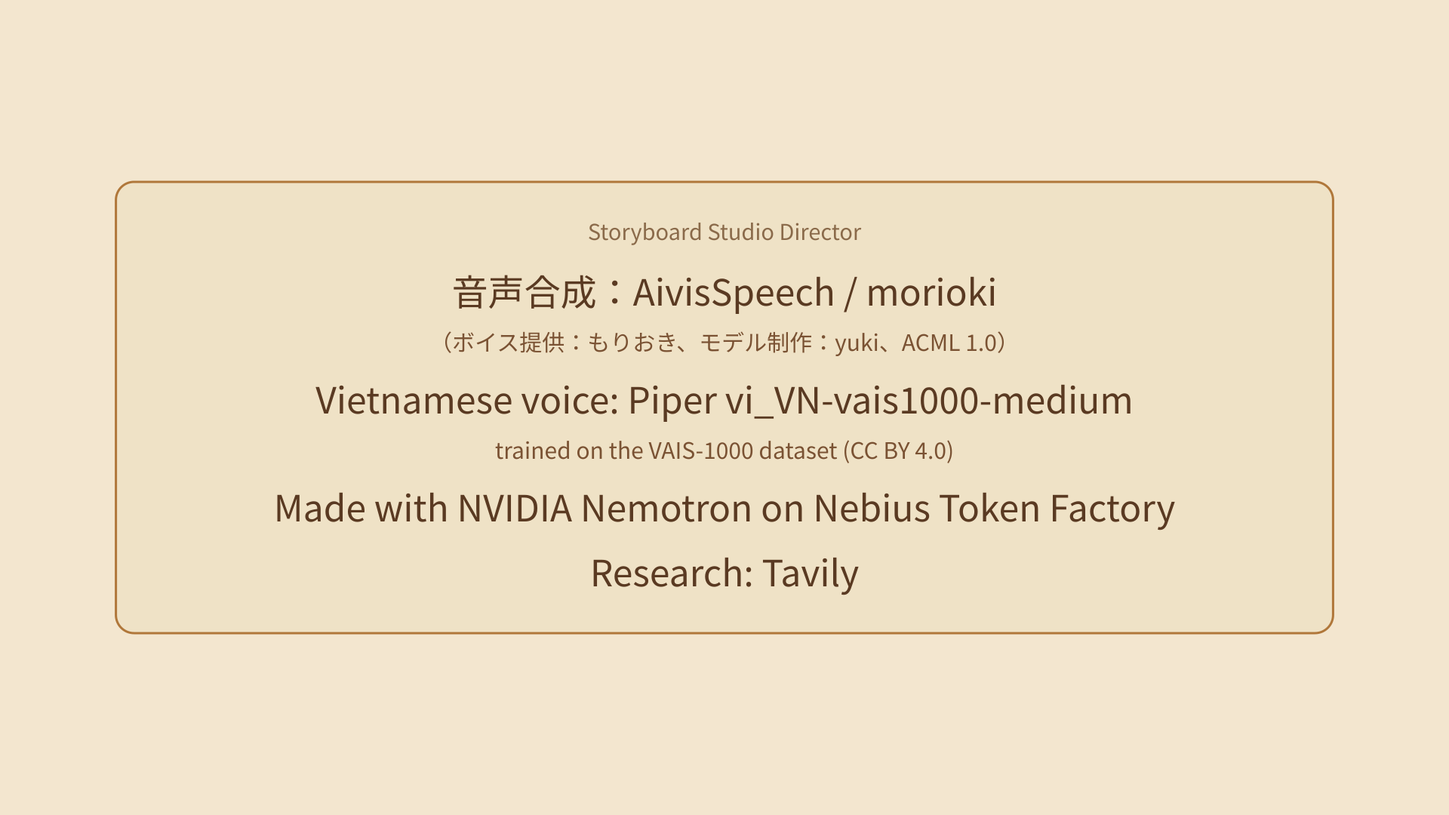
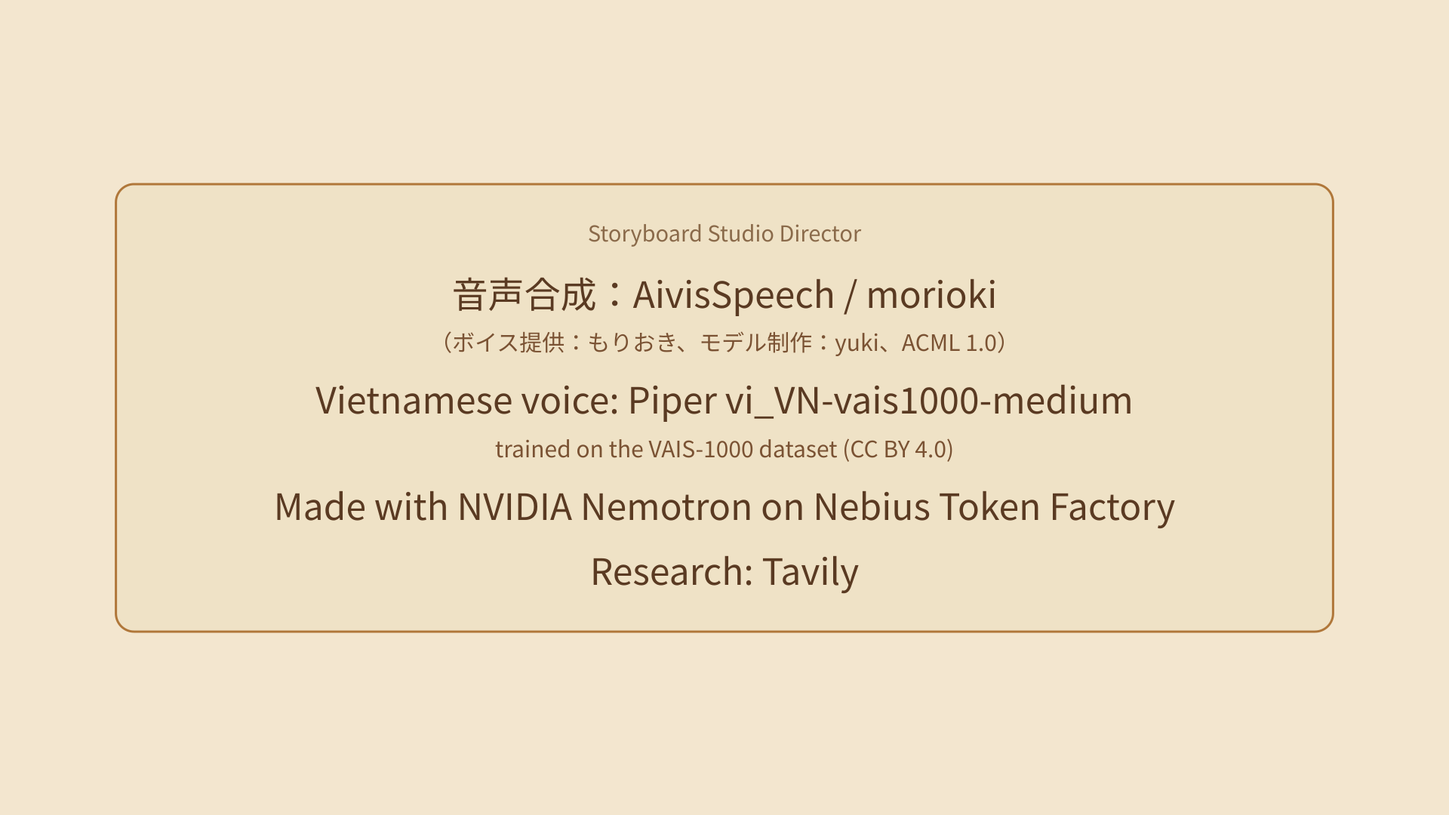
fix(credits): readable 9:16 card, fades instead of a hard cut, CRF 18 (D65)
Owner QC of #25:
- 56 px base at 9:16; a line that would fit only below its floor
  (9:16 main 40 / detail 30, 16:9 36 / 26) wraps onto two rows at the
  break nearest its middle (space, or after 、/： in Japanese).
- The film's picture fades to cream and its sound fades out over the
  last 0.5 s; the card fades in over 0.3 s; total = film + 3 s.
- Re-encode at x264 CRF 18, preset medium.
- Delete the unused public/credits/*.png (owner approved).

Claude-Session: https://claude.ai/code/session_01XowuYW5WQyZVayGQKumT27

diff --git a/scripts/director/credits.ts b/scripts/director/credits.ts
@@ -11,7 +11,10 @@
  * The card is drawn by the publish scripts (pilot.ts, showcase.ts) on the
  * machine that publishes, never on the server, and a card with Japanese
  * refuses to draw without a Japanese font (no tofu boxes in a published film).
- * ffmpeg appends it (`appendCredits`), argv arrays, never a shell.
+ * ffmpeg appends it (`appendCredits`), argv arrays, never a shell: the film's
+ * picture and sound fade out over its last 0.5 s, the card fades in over 0.3 s,
+ * total = film + 3 s, re-encoded at x264 CRF 18 / medium (owner QC of #25).
+ * A line that would shrink below its floor wraps onto two rows instead.
  */
 import { existsSync, mkdirSync, readFileSync, renameSync, rmSync, writeFileSync } from "node:fs";
 import { spawnSync } from "node:child_process";
@@ -20,14 +23,63 @@ import { STUDIO_LINE, VAIS_CREDIT, NEMOTRON_LINE, TAVILY_LINE, voiceCreditLine, 
 import { VOICE_CREDIT } from "@/lib/services/director/ownerPackage";
 
 export const CREDIT_SECONDS = 3;
+/** The film fades out over its last FADE_OUT s (picture to the card's cream, sound to silence), then the card fades in over FADE_IN s. */
+export const FADE_OUT = 0.5;
+export const FADE_IN = 0.3;
+/** Re-encode quality: the 2K showcase films keep their detail (owner QC of #25). */
+export const CRF = 18;
+const CREAM = "#f3e6cf";
 type Aspect = "16:9" | "9:16";
 
 const esc = (t: string) => t.replace(/&/g, "&amp;").replace(/</g, "&lt;").replace(/>/g, "&gt;");
-const CJK = /[　-ヿ㐀-鿿＀-￯]/u;
+const CJK = /[\u3000-\u30ff\u3400-\u9fff\uff00-\uffef]/u;
 /** Rough rendered width in em: CJK and full-width glyphs are 1 em, the rest about 0.56 em. */
-const ems = (t: string) => [...t].reduce((n, c) => n + (CJK.test(c) ? 1 : 0.56), 0);
+export const ems = (t: string) => [...t].reduce((n, c) => n + (CJK.test(c) ? 1 : 0.56), 0);
 /** The size that keeps a line inside `maxW` px, never above `size`. */
 const fit = (t: string, size: number, maxW: number) => Math.min(size, Math.floor(maxW / Math.max(1, ems(t))));
+
+/**
+ * Type sizes per aspect (px on the 1080-wide side for 9:16): the base a line starts at, and the
+ * floor below which a line is wrapped onto two rows instead of shrunk (owner QC of #25).
+ */
+export const CARD_TYPE = {
+  "16:9": { width: 1920, height: 1080, main: 48, detail: 30, studio: 29, mainFloor: 36, detailFloor: 26 },
+  "9:16": { width: 1080, height: 1920, main: 56, detail: 35, studio: 32, mainFloor: 40, detailFloor: 30 },
+} as const;
+/** Text stays inside this share of the card width. */
+export const TEXT_WIDTH = 0.76;
+
+/**
+ * Two rows for a line that would otherwise go below its floor: the break nearest the middle,
+ * at a space, or (Japanese) after 、 or ：. A line with no such place breaks at its middle.
+ */
+export function wrapTwo(text: string): [string, string] {
+  const chars = [...text];
+  const total = ems(text);
+  let best = -1;
+  let gap = Infinity;
+  for (let i = 1; i < chars.length - 1; i++) {
+    const c = chars[i];
+    const cut = c === " " ? i : c === "、" || c === "：" ? i + 1 : -1;
+    if (cut < 0) continue;
+    const d = Math.abs(ems(chars.slice(0, cut).join("")) - total / 2);
+    if (d < gap) {
+      gap = d;
+      best = cut;
+    }
+  }
+  if (best < 0) best = Math.ceil(chars.length / 2);
+  return [chars.slice(0, best).join("").trimEnd(), chars.slice(best).join("").trimStart()];
+}
+
+/** The rows one line becomes: itself at the largest size that fits, or two rows when that size is below the floor. */
+export function layoutLine(text: string, base: number, floor: number, maxW: number): Array<{ text: string; size: number }> {
+  const one = fit(text, base, maxW);
+  if (one >= floor) return [{ text, size: one }];
+  const two = wrapTwo(text);
+  const size = Math.max(floor, Math.min(...two.map((t) => fit(t, base, maxW))));
+  return two.map((t) => ({ text: t, size }));
+}
 
 /** The owner's credit file for a package directory (qa/voice_credit.txt), when there is one. */
 export function readVoiceCredit(pkgDir: string): string | null {
@@ -35,20 +87,29 @@ export function readVoiceCredit(pkgDir: string): string | null {
   return existsSync(f) ? voiceCreditLine(readFileSync(f, "utf8")) : null;
 }
 
+/** Every text row of the card, top to bottom, with its size and the space after it. */
+export function cardRows(aspect: Aspect, blocks: readonly CreditBlock[]): Array<{ text: string; size: number; fill: string; gap: number }> {
+  const T = CARD_TYPE[aspect];
+  const maxW = T.width * TEXT_WIDTH;
+  const rows: Array<{ text: string; size: number; fill: string; gap: number }> = [];
+  const add = (parts: Array<{ text: string; size: number }>, fill: string, after: number) =>
+    parts.forEach((p, i) => rows.push({ ...p, fill, gap: i < parts.length - 1 ? p.size * 0.28 : after }));
+  add(layoutLine(STUDIO_LINE, T.studio, T.detailFloor, maxW), "#8a6a4a", T.main * 0.9);
+  for (const b of blocks) {
+    add(layoutLine(b.main, T.main, T.mainFloor, maxW), "#5a3a22", b.detail ? T.main * 0.5 : T.main * 0.8);
+    if (b.detail) add(layoutLine(b.detail, T.detail, T.detailFloor, maxW), "#7a5233", T.main * 0.8);
+  }
+  return rows;
+}
+
 /** The card as SVG: warm cream, the studio name, then each block (main line + smaller detail), centred. */
 export function creditSvg(aspect: Aspect, blocks: readonly CreditBlock[]): string {
-  const [w, h] = aspect === "16:9" ? [1920, 1080] : [1080, 1920];
-  const maxW = w * 0.76;
-  const base = aspect === "16:9" ? 48 : 40;
+  const T = CARD_TYPE[aspect];
+  const [w, h] = [T.width, T.height];
   const font = 'font-family="Noto Sans CJK JP, Noto Sans JP, Noto Sans, DejaVu Sans, sans-serif"';
-  const rows: Array<{ text: string; size: number; fill: string; gap: number }> = [{ text: STUDIO_LINE, size: fit(STUDIO_LINE, Math.round(base * 0.6), maxW), fill: "#8a6a4a", gap: base * 0.9 }];
-  for (const b of blocks) {
-    rows.push({ text: b.main, size: fit(b.main, base, maxW), fill: "#5a3a22", gap: base * 0.55 });
-    if (b.detail) rows.push({ text: b.detail, size: fit(b.detail, Math.round(base * 0.62), maxW), fill: "#7a5233", gap: base * 0.8 });
-    else rows[rows.length - 1].gap = base * 0.8;
-  }
+  const rows = cardRows(aspect, blocks);
   const height = rows.reduce((n, r, i) => n + r.size + (i < rows.length - 1 ? r.gap : 0), 0);
-  const pad = base * 1.1;
+  const pad = T.main * 1.1;
   let y = h / 2 - height / 2;
   const text = rows
     .map((r) => {
@@ -59,7 +120,7 @@ export function creditSvg(aspect: Aspect, blocks: readonly CreditBlock[]): strin
     })
     .join("\n");
   return `<svg xmlns="http://www.w3.org/2000/svg" width="${w}" height="${h}" viewBox="0 0 ${w} ${h}">
-<rect width="${w}" height="${h}" fill="#f3e6cf"/>
+<rect width="${w}" height="${h}" fill="${CREAM}"/>
 <rect x="${w * 0.08}" y="${Math.round(h / 2 - height / 2 - pad)}" width="${w * 0.84}" height="${Math.round(height + pad * 2)}" rx="24" fill="#efe2c6" stroke="#b0773a" stroke-width="3"/>
 ${text}
 </svg>`;
@@ -78,28 +139,51 @@ export async function renderCard(file: string, aspect: Aspect, blocks: readonly 
   writeFileSync(file, await sharp(Buffer.from(creditSvg(aspect, blocks))).png().toBuffer());
 }
 
-/** Duration (s) and stream facts of a film, from ffprobe. */
-function probe(file: string): { w: number; h: number; fps: number; audio: boolean } {
-  const v = spawnSync("ffprobe", ["-v", "error", "-select_streams", "v:0", "-show_entries", "stream=width,height,r_frame_rate", "-of", "csv=p=0", file], { encoding: "utf8" }).stdout.trim().split(",");
-  const a = spawnSync("ffprobe", ["-v", "error", "-select_streams", "a", "-show_entries", "stream=index", "-of", "csv=p=0", file], { encoding: "utf8" }).stdout.trim();
-  const [num, den] = (v[2] ?? "12/1").split("/").map(Number);
-  return { w: Number(v[0]), h: Number(v[1]), fps: Math.round(num / (den || 1)) || 12, audio: a.length > 0 };
+export interface FilmProbe {
+  readonly w: number;
+  readonly h: number;
+  readonly fps: number;
+  readonly audio: boolean;
+  /** Duration of the film (s), from the container. */
+  readonly dur: number;
 }
 
-/** Append the credit card (CREDIT_SECONDS, silent) to a film in place. */
+/** Size, frame rate, audio and duration of a film, from ffprobe. */
+export function probe(file: string): FilmProbe {
+  const v = spawnSync("ffprobe", ["-v", "error", "-select_streams", "v:0", "-show_entries", "stream=width,height,r_frame_rate", "-of", "csv=p=0", file], { encoding: "utf8" }).stdout.trim().split(",");
+  const a = spawnSync("ffprobe", ["-v", "error", "-select_streams", "a", "-show_entries", "stream=index", "-of", "csv=p=0", file], { encoding: "utf8" }).stdout.trim();
+  const d = spawnSync("ffprobe", ["-v", "error", "-show_entries", "format=duration", "-of", "csv=p=0", file], { encoding: "utf8" }).stdout.trim();
+  const [num, den] = (v[2] ?? "12/1").split("/").map(Number);
+  return { w: Number(v[0]), h: Number(v[1]), fps: Math.round(num / (den || 1)) || 12, audio: a.length > 0, dur: Number(d) || 0 };
+}
+
+/**
+ * The ffmpeg filter graph: the film trimmed to its own length with picture and sound fading out over
+ * its last FADE_OUT s, then the card (CREDIT_SECONDS, silent) fading in from the same cream over
+ * FADE_IN s. Inputs: 0 = film, 1 = looped card, 2 = silence (when the film has sound).
+ */
+export function creditFilter(p: FilmProbe): string {
+  const out = Math.max(0, p.dur - FADE_OUT).toFixed(3);
+  const dur = p.dur.toFixed(3);
+  const card = `scale=${p.w}:${p.h}:force_original_aspect_ratio=decrease,pad=${p.w}:${p.h}:(ow-iw)/2:(oh-ih)/2:color=${CREAM},setsar=1,fps=${p.fps},format=yuv420p,fade=t=in:st=0:d=${FADE_IN}:color=${CREAM}`;
+  const film = `trim=duration=${dur},setpts=PTS-STARTPTS,setsar=1,fps=${p.fps},format=yuv420p,fade=t=out:st=${out}:d=${FADE_OUT}:color=${CREAM}`;
+  return p.audio
+    ? `[0:v]${film}[a0];[1:v]${card}[c];[0:a]atrim=duration=${dur},asetpts=PTS-STARTPTS,aresample=48000,aformat=channel_layouts=stereo,apad=whole_dur=${dur},afade=t=out:st=${out}:d=${FADE_OUT}[s0];[2:a]aformat=channel_layouts=stereo[s1];[a0][s0][c][s1]concat=n=2:v=1:a=1[v][a]`
+    : `[0:v]${film}[a0];[1:v]${card}[c];[a0][c]concat=n=2:v=1:a=0[v]`;
+}
+
+/** Append the credit card to a film in place: total = film + CREDIT_SECONDS. */
 export async function appendCredits(film: string, aspect: Aspect, blocks: readonly CreditBlock[]): Promise<void> {
   const card = `${film}.credits.png`;
   await renderCard(card, aspect, blocks);
   const p = probe(film);
   const tmp = `${film}.credits.mp4`;
-  const scale = `scale=${p.w}:${p.h}:force_original_aspect_ratio=decrease,pad=${p.w}:${p.h}:(ow-iw)/2:(oh-ih)/2:color=#f3e6cf,setsar=1,fps=${p.fps},format=yuv420p`;
+  const enc = ["-c:v", "libx264", "-preset", "medium", "-crf", String(CRF), "-pix_fmt", "yuv420p"];
   const args = p.audio
     ? ["-loglevel", "error", "-y", "-i", film, "-loop", "1", "-t", String(CREDIT_SECONDS), "-i", card, "-f", "lavfi", "-t", String(CREDIT_SECONDS), "-i", "anullsrc=r=48000:cl=stereo",
-       "-filter_complex", `[0:v]setsar=1,fps=${p.fps},format=yuv420p[a0];[1:v]${scale}[c];[0:a]aresample=48000,aformat=channel_layouts=stereo[s0];[2:a]aformat=channel_layouts=stereo[s1];[a0][s0][c][s1]concat=n=2:v=1:a=1[v][a]`,
-       "-map", "[v]", "-map", "[a]", "-c:v", "libx264", "-preset", "veryfast", "-crf", "20", "-pix_fmt", "yuv420p", "-c:a", "aac", "-b:a", "160k", "-movflags", "+faststart", tmp]
+       "-filter_complex", creditFilter(p), "-map", "[v]", "-map", "[a]", ...enc, "-c:a", "aac", "-b:a", "160k", "-movflags", "+faststart", tmp]
     : ["-loglevel", "error", "-y", "-i", film, "-loop", "1", "-t", String(CREDIT_SECONDS), "-i", card,
-       "-filter_complex", `[0:v]setsar=1,fps=${p.fps},format=yuv420p[a0];[1:v]${scale}[c];[a0][c]concat=n=2:v=1:a=0[v]`,
-       "-map", "[v]", "-c:v", "libx264", "-preset", "veryfast", "-crf", "20", "-pix_fmt", "yuv420p", "-movflags", "+faststart", tmp];
+       "-filter_complex", creditFilter(p), "-map", "[v]", ...enc, "-movflags", "+faststart", tmp];
   const r = spawnSync("ffmpeg", args, { encoding: "utf8" });
   rmSync(card, { force: true });
   if (r.status !== 0) throw new Error(`appending the credits failed: ${r.stderr.slice(0, 400)}`);

diff --git a/tests/filmCredits.test.ts b/tests/filmCredits.test.ts
@@ -3,7 +3,11 @@ import { readFileSync } from "node:fs";
 import { filmCredits, NEMOTRON_LINE, TAVILY_LINE, VAIS_CREDIT, voiceCreditLine, type CreditStep } from "@/lib/services/director/filmCredits";
 import { OWNER_VOICE } from "@/lib/services/director/fixedNarration";
 import { VOICE_CREDIT } from "@/lib/services/director/ownerPackage";
-import { creditSvg, readVoiceCredit } from "../scripts/director/credits";
+import { spawnSync } from "node:child_process";
+import { mkdtempSync, rmSync } from "node:fs";
+import { tmpdir } from "node:os";
+import path from "node:path";
+import { appendCredits, CARD_TYPE, cardRows, creditFilter, CRF, ems, FADE_IN, FADE_OUT, probe, readVoiceCredit, TEXT_WIDTH, wrapTwo } from "../scripts/director/credits";
 
 /** The end card of every published film (owner plan 2026-10-10, item 2): built from the run's trace. */
 describe("film credits", () => {
@@ -46,17 +50,61 @@ describe("film credits", () => {
     expect(mains.slice(0, 2)).toEqual([VAIS_CREDIT.main, NEMOTRON_LINE]);
   });
 
-  it("the card fits every line inside the box at both aspects", () => {
-    const blocks = [{ main: "音声合成：AivisSpeech / morioki", detail: "（ボイス提供：もりおき、モデル制作：yuki、ACML 1.0）" }, VAIS_CREDIT, { main: NEMOTRON_LINE }, { main: TAVILY_LINE }];
+  const ALL = [{ main: "音声合成：AivisSpeech / morioki", detail: "（ボイス提供：もりおき、モデル制作：yuki、ACML 1.0）" }, VAIS_CREDIT, { main: NEMOTRON_LINE }, { main: TAVILY_LINE }];
+
+  it("no row shrinks below its floor (9:16 main ≥ 40, detail ≥ 30; 16:9 main ≥ 36, detail ≥ 26) and every row fits", () => {
     for (const aspect of ["16:9", "9:16"] as const) {
-      const svg = creditSvg(aspect, blocks);
-      const w = aspect === "16:9" ? 1920 : 1080;
-      const lines = [...svg.matchAll(/font-size="(\d+)"[^>]*>([^<]+)</g)].map((m) => ({ size: Number(m[1]), text: m[2] }));
-      expect(lines.map((l) => l.text)).toContain(NEMOTRON_LINE);
-      for (const l of lines) {
-        const em = [...l.text].reduce((n, ch) => n + (/[　-ヿ㐀-鿿＀-￯]/u.test(ch) ? 1 : 0.56), 0);
-        expect(em * l.size, `${aspect} ${l.text}`).toBeLessThanOrEqual(w * 0.76 + 1);
+      const T = CARD_TYPE[aspect];
+      const rows = cardRows(aspect, ALL);
+      for (const r of rows) {
+        const floor = r.fill === "#5a3a22" ? T.mainFloor : T.detailFloor;
+        expect(r.size, `${aspect} ${r.text}`).toBeGreaterThanOrEqual(floor);
+        expect(ems(r.text) * r.size, `${aspect} ${r.text}`).toBeLessThanOrEqual(T.width * TEXT_WIDTH + 1);
       }
+    }
+    expect(CARD_TYPE["9:16"].main).toBe(56);
+    // at 9:16 the long lines wrap onto two rows instead of shrinking
+    const tall = cardRows("9:16", ALL).map((r) => r.text);
+    expect(tall).toContain("Made with NVIDIA Nemotron");
+    expect(tall).toContain("on Nebius Token Factory");
+    expect(tall).toContain("Vietnamese voice: Piper");
+    // at 16:9 they stay on one row
+    expect(cardRows("16:9", ALL).map((r) => r.text)).toContain(NEMOTRON_LINE);
+  });
+
+  it("wraps at the space nearest the middle, or after 、/： in Japanese", () => {
+    expect(wrapTwo("Made with NVIDIA Nemotron on Nebius Token Factory")).toEqual(["Made with NVIDIA Nemotron", "on Nebius Token Factory"]);
+    expect(wrapTwo("（ボイス提供：もりおき、モデル制作：yuki、ACML 1.0）")).toEqual(["（ボイス提供：もりおき、", "モデル制作：yuki、ACML 1.0）"]);
+    expect(wrapTwo("あいうえおかきくけこ")).toEqual(["あいうえお", "かきくけこ"]);
+  });
+
+  it("fades the film out over its last 0.5 s (picture and sound) and the card in over 0.3 s", () => {
+    const f = creditFilter({ w: 1080, h: 1920, fps: 12, audio: true, dur: 60 });
+    expect(FADE_OUT).toBe(0.5);
+    expect(FADE_IN).toBe(0.3);
+    expect(f).toContain("fade=t=out:st=59.500:d=0.5");
+    expect(f).toContain("afade=t=out:st=59.500:d=0.5");
+    expect(f).toContain("fade=t=in:st=0:d=0.3");
+    expect(f).toContain("concat=n=2:v=1:a=1");
+    expect(creditFilter({ w: 1080, h: 1920, fps: 12, audio: false, dur: 60 })).toContain("concat=n=2:v=1:a=0");
+  });
+
+  const hasFfmpeg = spawnSync("ffmpeg", ["-version"]).status === 0;
+  it.skipIf(!hasFfmpeg)("appends the card to a real film: total = film + 3 s, sound faded at the cut, x264 CRF 18", async () => {
+    const dir = mkdtempSync(path.join(tmpdir(), "credits-"));
+    try {
+      const film = path.join(dir, "film.mp4");
+      const make = spawnSync("ffmpeg", ["-loglevel", "error", "-y", "-f", "lavfi", "-i", "testsrc2=s=320x568:r=12:d=2", "-f", "lavfi", "-i", "sine=f=440:d=2", "-c:v", "libx264", "-pix_fmt", "yuv420p", "-c:a", "aac", film]);
+      expect(make.status).toBe(0);
+      await appendCredits(film, "9:16", [{ main: NEMOTRON_LINE }]);
+      const p = probe(film);
+      expect(p.dur).toBeGreaterThan(4.95);
+      expect(p.dur).toBeLessThan(5.1);
+      const peak = (from: number, to: number) => Number(/max_volume: (-?[\d.]+|-inf) dB/.exec(spawnSync("ffmpeg", ["-i", film, "-af", `atrim=${from}:${to},volumedetect`, "-f", "null", "-"], { encoding: "utf8" }).stderr)?.[1] ?? "-inf");
+      expect(peak(1.9, 1.98)).toBeLessThan(peak(0.5, 1.4) - 12);
+      expect(spawnSync("grep", ["-c", "-a", `crf=${CRF}.0`, film], { encoding: "utf8" }).stdout.trim()).not.toBe("0");
+    } finally {
+      rmSync(dir, { recursive: true, force: true });
     }
   });
 });

diff --git a/docs/hackathon/DECISIONS.md b/docs/hackathon/DECISIONS.md
@@ -68,4 +68,5 @@ Where the code or the environment contradicts `SPEC.md`, the code wins and the d
 | D62 | 2026-10-10 | **Voice credits and the demo voice label** (owner decision A1). The credit 「音声合成：AivisSpeech / morioki（ボイス提供：もりおき、モデル制作：yuki、ACML 1.0）」 is a committed end card (`public/credits/voice-morioki-{16x9,9x16}.png`, drawn once with Noto Sans CJK, so the server needs no Japanese font). The publish scripts append it (3 s, silent; ffmpeg with argv arrays) only to films whose lines are the owner's recordings: every published pilot Short, and a showcase film whose trace has `owner-recording` voices. It is also in the README and Devpost. In the run view, the Japanese Piper voice is labelled **"Piper voice (non-commercial demo voice)"** and the owner's lines **"Owner recording (AivisSpeech)"**. | The owner asked for the credit everywhere although ACML 1.0 makes it optional, and for the demo voice to be visibly non-commercial. Checked on a synthetic 9:16 film (2 s + 3 s card = 5.0 s, audio kept); label tests in `tests/runState.test.ts`. |
 | D63 | 2026-10-10 | **Owner narration received (O4); every owner line is levelled to −18 LUFS before the mix.** PR #23 delivered 35 lines: AivisSpeech / morioki, mono, 16-bit, 24 kHz, with `timings.json` and the owner's QA (`docs/hackathon/pilot/NARRATION_QA.md`). Checked here with the pilot's own loader: every line present, durations equal to `timings.json` (0 mismatches over 0.15 s). Measured loudness runs from −21.6 to −15.9 LUFS. `shotVoice` now levels each line on its own with `levelLine`: gain to −18 LUFS (BS.1770-4 integrated, the same meter as the mix), then the mixer's lookahead limiter holds peaks at −1 dBFS, repeated up to 4 times while the limiter takes more than 0.3 LU back. Lengths are unchanged, so the shot timing is unchanged. The trace step shows each line's before → after loudness. | On the real lines: every line lands at −18.0 to −18.2 LUFS with peaks ≤ −1.00 dBFS, including fūrin S08_L01 (−21.6, raised about 3.6 dB with its peaks limited). The film mix still sets the whole film's integrated level; levelling first keeps the narrator steady from line to line. Tests: levelling of a quiet line with loud peaks and of a loud line, and the summary text in the mock run. |
 | D64 | 2026-10-10 | **End credits on every published film, built from the run** (owner plan 2026-10-10 evening, item 2; supersedes D62's static card). `filmCredits` (pure, `director/filmCredits.ts`) reads the run's trace: the owner's AivisSpeech lines → the voice credit, verbatim from the package's `qa/voice_credit.txt` (first line), name and detail split at （; any `piper:vi_VN-vais1000` line → "Vietnamese voice: Piper vi_VN-vais1000-medium, trained on the VAIS-1000 dataset (CC BY 4.0)"; always "Made with NVIDIA Nemotron on Nebius Token Factory"; "Research: Tavily" only when a Tavily search returned at least one result. `scripts/director/credits.ts` draws the card at publish time on the publishing machine (never the server), shrinks a line to fit the box at 16:9 and 9:16, refuses to draw Japanese without a Japanese font (`fc-list :lang=ja`), and ffmpeg appends it (3 s, silent; argv arrays). `showcase.ts` (publish and `--refilm`) and `pilot.ts` append it to every film. The demo UI also shows "Japanese voice: Piper, a non-commercial demo voice" under the language picker when 日本語 is picked and on the Japanese sample card, before a run starts (EN/VI/JA strings). | The owner asked for the voice, VAIS-1000 and Nemotron/Nebius credits on every published film, Tavily when used. Reading the trace means a card never claims a voice or a search the film didn't use. Checked: `tests/filmCredits.test.ts` (6 tests, incl. the published bánh chưng trace → VAIS-1000 + Nemotron, and the line-fit check); a synthetic 9:16 film + card = 5.02 s with audio kept; sample cards with every block in `evidence/credits/`. The old static PNGs in `public/credits/` are no longer used. |
+| D65 | 2026-10-10 | **Credit card polish after owner QC of #25.** (1) Readability: 9:16 starts at 56 px (1080 wide), 16:9 at 48 px; a line that would fit only below its floor (main 40 / detail 30 px at 9:16, 36 / 26 at 16:9) wraps onto two rows at the break nearest its middle (a space; in Japanese after 、 or ：) instead of shrinking. (2) No hard cut: the film's picture fades to the card's cream and its sound fades out over the last 0.5 s, then the card fades in from cream over 0.3 s; total = film + 3 s. (3) Re-encode at x264 CRF 18, preset medium (was 20 / veryfast), so the 2K showcase films keep their detail. The unused `public/credits/*.png` are deleted (owner approved). | Owner QC: at 9:16 the long lines had shrunk to about 29 px. Checked: `tests/filmCredits.test.ts` (9 tests: every row ≥ its floor and inside the text width at both aspects, the wrap points, the fade filter, and an ffmpeg run on a real film: 2 s + card = 5.0 s, the last 0.08 s of sound ≥ 12 dB under the body, `crf=18.0` in the x264 header). On a 4 s test film the peak drops −20.5 → −23.2 → −31.6 dB through the fade. Sample cards re-rendered in `evidence/credits/`. |
 

diff --git a/docs/hackathon/STATUS.md b/docs/hackathon/STATUS.md
@@ -31,6 +31,7 @@ _Started 2026-10-09 (ICT). Branch `claude/gifted-cannon-1nhl2s` → small PRs to
 **Spend (v2)**: v1 total **$3.23** (ledger). v2 stop line `SPEND_ALERT_USD` = 3.23 + 10 = **13.23**. Token Factory balance reported by the owner: _pending (O2)_.
 
 ### v2 log
+- 2026-10-10 evening: **#25 merged by the owner and live** (`13241ff` on `/api/health`). **Credit card polish (D65)** after the owner's QC: a 56 px base at 9:16 with floors (long lines wrap onto two rows instead of shrinking), a 0.5 s fade-out of the film's picture and sound then a 0.3 s fade-in of the card (total = film + 3 s), CRF 18 / medium. Sample cards re-rendered: [16:9](evidence/credits/credits-all-blocks-16x9.png), [9:16](evidence/credits/credits-all-blocks-9x16.png).
 - 2026-10-10 evening: **Owner plan update: M3 moves to 2026-10-16** (freeze stays 2026-10-27; 10-17 → 10-26 is buffer, fixes only; no deploys after 10-16 unless QC asks). Schedule: 10-11 re-shoot EN kite, VI bánh chưng, JA fūrin (owner WAVs) with research on → contact sheets for by-eye review before publishing or swapping the hero / README GIF / OG · 10-12 the 3 Hidamari Shorts (9:16, ≤ 60 s, series mode, owner WAVs) → MP4s + contact sheets · 10-13 frozen-commit bench (D51) incl. config C on the culture-heavy prompts, eval commit frozen the evening before · 10-14 → 15 video v2 (≤ 2:55), YOUTUBE.md, thumbnail, DEVPOST_SUBMISSION_V2 + the 9 answers, HANDOFF_V2 · 10-16 owner + QC update Devpost and upload the Judge Access PDF. Tonight's code: items 1 (O9 polish), 3 (JA demo-voice label) and 4 (sub_pages) were already on `main` (D61, D62, `c5c2061`); the JA label now also shows before a run (language picker, JA sample card). Item 2: **end credits on every published film, built from the run's trace** (D64): owner voice credit from `qa/voice_credit.txt`, VAIS-1000 for Vietnamese Piper, "Made with NVIDIA Nemotron on Nebius Token Factory", Tavily when it found references. Sample cards: [16:9](evidence/credits/credits-all-blocks-16x9.png), [9:16](evidence/credits/credits-all-blocks-9x16.png).
 - 2026-10-09: SPEC_V2 saved, plan written. Local baseline after `cp .env.example .env` + `prisma migrate deploy` + espeak-ng: **554 passed / 4 skipped** (same as v1).
 - 2026-10-09: **M1 code merged** ([PR #4](https://github.com/vansyson1308/imageforagent/pull/4), merge `28d07d0`; 572 passed / 4 skipped, CI green) and **deployed**: Railway `studio` now builds from `main` (it was the v1 branch), with D28 capacity variables set. **Hosted verification:** `/api/health` → 200, `ok: true`, version 2.0.0, commit `28d07d0`. database, storage, ffmpeg, tts and tokenFactory (25 models, crew listed) are ok; tavily is `off` (truthful); demoBudget and passcode are ok ([evidence](evidence/hosted-health-2026-10-09.json)). `/unlock`, `/showcase`, `/showcase/replay/tea-house`, `/og.jpg` and the replay stills all return 200; `/` redirects to unlock. **Not yet verified on the hosted URL:** a full film run and a tab-close/reopen there. Both need the passcode or an operator passcode (B10). The same flows pass in a headless browser against a local production build with the mock crew.
